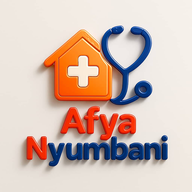
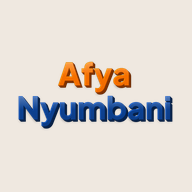
The name in raised lettering, in place of the house mark
The owner asked for the house-and-stethoscope mark to go and the name
to carry the brand, in the 3-D lettering the business already uses.

The artwork that carried that lettering could not be reused: it was
cropped flat across the tops of the caps in "Afya", and pixels that
were never exported cannot be recovered by any amount of layout. So the
lettering is built instead, in scripts/make-brand-art.py, out of the
typeface the app already ships — which means it can be made at any size
with nothing clipped, and remade if a colour or a word ever changes.

The depth is four passes: a blurred contact shadow so the letters sit on
the surface rather than float above it, the glyph stamped repeatedly
along one diagonal in a darkened shade for the side wall, a vertical
gradient on the face so it catches light, and a soft gloss band across
the top of each letter, which is what makes it read as moulded plastic
rather than a flat shape with a shadow behind it.

Everything that was the old mark is cut from that one piece of artwork:
the app icon, the Android adaptive icon and its monochrome silhouette,
the web icons at 192 and 512, the maskable one inset to the circle
Android crops to, and the launch screen. assets/logo-mark.png and the
cropped wordmark are deleted rather than left to be picked up again.

The launch screen and the in-app loading gate now show the same image at
the same size, so handing over from one to the other is invisible.
[…]

diff --git a/mobile/public/index.html b/mobile/public/index.html
@@ -15,10 +15,12 @@
     2. The background set on html and body, so the very first paint,
        before a line of JavaScript has run, is already the brand cream
        rather than a white flash.
-    3. The name drawn as text inside the root element. React replaces
-       it the moment it mounts. It costs no download, it cannot be
-       blurry because it is not a picture, and it is the same two-tone
-       name the app itself draws a second later.
+    3. The name, in the raised lettering the business uses, inside the
+       root element. React replaces it the moment it mounts. It is a
+       520-pixel image drawn at 260, so it is a 2x asset and cannot go
+       soft the way the old 64-pixel favicon did — that was the whole
+       complaint, and the fix is the right resolution rather than a
+       bigger file.
     4. A theme colour, so the browser chrome matches instead of sitting
        white above a cream page.
 
@@ -73,16 +75,11 @@
         font-family: -apple-system, BlinkMacSystemFont, 'Segoe UI', Roboto, sans-serif;
         -webkit-font-smoothing: antialiased;
       }
-      #afya-splash .name {
-        font-size: 30px;
-        font-weight: 800;
-        letter-spacing: -0.6px;
-      }
-      #afya-splash .a {
-        color: #fd6000;
-      }
-      #afya-splash .n {
-        color: #0d408f;
+      #afya-splash img {
+        width: 260px;
+        max-width: 72vw;
+        height: auto;
+        display: block;
       }
       #afya-splash .tag {
         font-size: 13px;
@@ -119,7 +116,7 @@
 
     <div id="root">
       <div id="afya-splash">
-        <div class="name"><span class="a">Afya</span> <span class="n">Nyumbani</span></div>
+        <img src="/wordmark-3d.png" alt="Afya Nyumbani" width="520" height="79" />
         <div class="tag">Huduma ya afya mlangoni kwako</div>
         <div class="bar"><i></i></div>
       </div>

diff --git a/mobile/lib/brand.js b/mobile/lib/brand.js
@@ -3,16 +3,16 @@ import { colors, font } from './theme';
 
 // The name, set as text rather than as a picture.
 //
-// It used to be assets/wordmark.png. That file is cropped: the tops of
-// the A, f, t and y in "Afya" are cut flat against the top edge of the
+// It used to be assets/wordmark.png. That file was cropped: the tops of
+// the A, f, t and y in "Afya" were cut flat against the edge of the
 // canvas, and no amount of layout fixes that, because the pixels are
-// not in the file. Padding the box only moves the cut; 'contain' cannot
-// restore what was never exported.
+// not in the file.
 //
-// So the name is typed now, in the app's own Jakarta ExtraBold, in the
-// logo's two colours. Nothing can clip it, it stays sharp at every
-// density, it costs no download, and it reads at sizes where the raised
-// 3-D lettering in the artwork turned to mud.
+// The raised 3-D lettering is back where it belongs — on the app icon
+// and the launch screen, rebuilt from this same typeface at a size
+// where the depth reads. Here it stays typed, because this draws the
+// name at 21 points in a header, and extruded letters at 21 points are
+// mud. Same two colours, same shapes; the depth is what is dropped.
 //
 // The house-and-stethoscope mark is not here. It was beside the name on
 // the sign-in screens and at the top of Home, and the owner asked for it

diff --git a/mobile/app/index.js b/mobile/app/index.js
@@ -1,6 +1,5 @@
 import { Redirect } from 'expo-router';
-import { ActivityIndicator, StyleSheet, View } from 'react-native';
-import { Wordmark } from '../lib/brand';
+import { ActivityIndicator, Image, StyleSheet, View } from 'react-native';
 import { useSession } from '../lib/session';
 import { colors, spacing } from '../lib/theme';
 
@@ -16,7 +15,15 @@ export default function Index() {
   if (loading) {
     return (
       <View style={styles.container}>
-        <Wordmark size={34} align="center" style={styles.wordmark} />
+        {/* The same raised lettering the HTML launch screen shows, at
+            the same size, so handing over from one to the other is
+            invisible rather than a jump from one logo to another. */}
+        <Image
+          source={require('../assets/wordmark-3d.png')}
+          style={styles.wordmark}
+          resizeMode="contain"
+          accessibilityLabel="Afya Nyumbani"
+        />
         <ActivityIndicator color={colors.primary} />
       </View>
     );
@@ -32,5 +39,5 @@ const styles = StyleSheet.create({
     justifyContent: 'center',
     backgroundColor: colors.cream,
   },
-  wordmark: { marginBottom: spacing.lg },
+  wordmark: { width: 260, height: 40, marginBottom: spacing.lg },
 });

diff --git a/mobile/scripts/make-brand-art.py b/mobile/scripts/make-brand-art.py
@@ -1,0 +1,215 @@
+"""Render "Afya Nyumbani" as raised 3-D lettering, and the icons from it.
+
+    python scripts/make-brand-art.py
+
+Needs Pillow and the Jakarta ExtraBold file that ships in node_modules,
+so run it after npm install. It writes assets/wordmark-3d*.png, the app
+icon, the Android adaptive icons and the web icons under public/.
+
+
+The business's own logo has the name in raised plastic-looking letters,
+and that is what the owner wants back — but the artwork that carried it
+was cropped flat across the top of the caps, and no amount of layout
+puts pixels back that were never exported. So the lettering is built
+here instead, from the app's own typeface, which means it can be made
+at any size with nothing clipped.
+
+How the depth is made, in order:
+
+  1. a contact shadow — the glyph blurred and pushed down, so the
+     letters sit on the surface rather than float above it
+  2. an extrusion — the glyph stamped repeatedly along one diagonal in
+     a darkened shade, which is the side wall of each letter
+  3. the face — a vertical gradient from a lighter tint at the top to
+     the base colour at the bottom, so the surface catches light
+  4. a rim light — the glyph minus a copy of itself nudged down-right,
+     which leaves a thin bright edge along the top-left
+"""
+import os
+
+from PIL import Image, ImageChops, ImageDraw, ImageFilter, ImageFont
+
+# Run from anywhere: everything is written relative to mobile/.
+os.chdir(os.path.join(os.path.dirname(os.path.abspath(__file__)), '..'))
+
+FONT = 'node_modules/@expo-google-fonts/plus-jakarta-sans/800ExtraBold/PlusJakartaSans_800ExtraBold.ttf'
+
+ORANGE = (253, 96, 0)
+BLUE = (13, 64, 143)
+
+
+def shade(rgb, factor):
+    return tuple(max(0, min(255, int(c * factor))) for c in rgb)
+
+
+def glyph_mask(size, text, font, pos):
+    layer = Image.new('L', size, 0)
+    ImageDraw.Draw(layer).text(pos, text, font=font, fill=255)
+    return layer
+
+
+def gradient(size, top, bottom):
+    ramp = Image.new('RGB', (1, size[1]))
+    px = ramp.load()
+    for y in range(size[1]):
+        t = y / max(1, size[1] - 1)
+        px[0, y] = tuple(int(top[i] + (bottom[i] - top[i]) * t) for i in range(3))
+    return ramp.resize(size, Image.BILINEAR)
+
+
+def _extent(mask):
+    box = mask.getbbox()
+    return (box[1], box[3]) if box else (0, 0)
+
+
+def raised(canvas, text, font, pos, colour, depth):
+    """Draw one run of text onto `canvas` (RGBA) as a raised solid."""
+    size = canvas.size
+    mask = glyph_mask(size, text, font, pos)
+
+    # 1. contact shadow
+    shadow = mask.filter(ImageFilter.GaussianBlur(depth * 0.55))
+    shadow = ImageChops.offset(shadow, int(depth * 0.5), int(depth * 0.9))
+    shadow = shadow.point(lambda v: int(v * 0.42))
+    canvas.paste(Image.new('RGBA', size, (40, 20, 8, 255)), (0, 0), shadow)
+
+    # 2. extrusion — the side wall, darkest at the back
+    for i in range(depth, 0, -1):
+        step = ImageChops.offset(mask, i, i)
+        wall = shade(colour, 0.42 + 0.16 * (1 - i / depth))
+        canvas.paste(Image.new('RGBA', size, wall + (255,)), (0, 0), step)
+
+    # 3. the face, lighter at the top so the surface catches light
+    face = gradient(size, shade(colour, 1.30), shade(colour, 0.88)).convert('RGBA')
+    canvas.paste(face, (0, 0), mask)
+
+    # 4. gloss — a soft band across the upper part of every letter, which
+    #    is what makes the lettering read as moulded plastic rather than
+    #    as a flat shape with a shadow behind it.
+    top, bottom = _extent(mask)
+    gloss = Image.new('L', size, 0)
+    band = int((bottom - top) * 0.46)
+    if band > 0:
+        ramp = gradient((size[0], band), (255, 255, 255), (0, 0, 0)).convert('L')
+        gloss.paste(ramp, (0, top))
+        gloss = ImageChops.multiply(gloss, mask)
+        gloss = gloss.filter(ImageFilter.GaussianBlur(1.2)).point(lambda v: int(v * 0.30))
+        canvas.paste(Image.new('RGBA', size, (255, 255, 255, 255)), (0, 0), gloss)
+
+    # 5. rim light along the top-left edge
+    rim = ImageChops.subtract(mask, ImageChops.offset(mask, 4, 4))
+    rim = rim.filter(ImageFilter.GaussianBlur(1.0)).point(lambda v: int(v * 0.55))
+    canvas.paste(Image.new('RGBA', size, shade(colour, 1.7) + (255,)), (0, 0), rim)
+
+
+def render(font_size, stacked, pad_ratio=0.34):
+    """Two lines when stacked (for a square icon), one when not."""
+    font = ImageFont.truetype(FONT, font_size)
+    probe = ImageDraw.Draw(Image.new('RGBA', (8, 8)))
+    depth = max(3, round(font_size * 0.075))
+
+    if stacked:
+        lines = ['Afya', 'Nyumbani']
+        colours = [ORANGE, BLUE]
+        widths = [probe.textlength(t, font=font) for t in lines]
+        boxes = [probe.textbbox((0, 0), t, font=font) for t in lines]
+        line_h = max(b[3] - b[1] for b in boxes)
+        gap = int(font_size * 0.12)
+        text_w = max(widths)
+        text_h = line_h * 2 + gap
+    else:
+        lines = ['Afya ', 'Nyumbani']
+        colours = [ORANGE, BLUE]
+        widths = [probe.textlength(t, font=font) for t in lines]
+        boxes = [probe.textbbox((0, 0), ''.join(lines), font=font)]
+        text_w = sum(widths)
+        text_h = boxes[0][3] - boxes[0][1]
+
+    pad = int(font_size * pad_ratio)
+    size = (int(text_w) + pad * 2 + depth, int(text_h) + pad * 2 + depth)
+    canvas = Image.new('RGBA', size, (0, 0, 0, 0))
+
+    if stacked:
+        for index, (text, colour) in enumerate(zip(lines, colours)):
+            box = probe.textbbox((0, 0), text, font=font)
+            x = (size[0] - depth - probe.textlength(text, font=font)) / 2
+            y = pad - box[1] + index * (line_h + gap)
+            raised(canvas, text, font, (x, y), colour, depth)
+    else:
+        x = pad
+        for text, colour in zip(lines, colours):
+            box = probe.textbbox((0, 0), text, font=font)
+            raised(canvas, text, font, (x, pad - box[1]), colour, depth)
+            x += probe.textlength(text, font=font)
+
+    return canvas
+
+
+os.makedirs('assets', exist_ok=True)
+
+stacked = render(190, stacked=True)
+stacked.save('assets/wordmark-3d-stacked.png')
+print('stacked', stacked.size, 'bbox', stacked.getchannel('A').getbbox())
+
+single = render(150, stacked=False)
+single.save('assets/wordmark-3d.png')
+print('single ', single.size, 'bbox', single.getchannel('A').getbbox())
+
+
+# --- Everything that is made out of the lettering ---------------------
+#
+# The house-and-stethoscope mark used to be the app icon. The owner asked
+# for the name instead, in the raised lettering, so every icon below is
+# cut from the same artwork and nothing is scaled up from a small file.
+
+CREAM = (239, 232, 224)
+
+art = Image.open('assets/wordmark-3d-stacked.png').convert('RGBA')
+art = art.crop(art.getchannel('A').getbbox())
+
+
+def square(size, fill_ratio, bg=CREAM):
+    canvas = Image.new('RGBA', (size, size), bg + (255,))
+    w = int(size * fill_ratio)
+    h = int(art.height * (w / art.width))
+    if h > w:
+        h, w = w, int(art.width * (w / art.height))
+    scaled = art.resize((w, h), Image.LANCZOS)
+    canvas.alpha_composite(scaled, ((size - w) // 2, (size - h) // 2))
+    return canvas.convert('RGB')
+
+
+square(1024, 0.82).save('assets/icon.png')
+square(512, 0.82).save('public/icon-512.png')
+square(192, 0.82).save('public/icon-192.png')
+square(196, 0.86).save('public/favicon-196.png')
+# Android crops a maskable icon to a circle, so only the middle ~66%
+# is guaranteed to survive.
+square(512, 0.62).save('public/icon-maskable-512.png')
+
+# Android adaptive icon: foreground inset to the safe circle, flat
+# background, and a white silhouette for themed icons.
+S = 1024
+fg = Image.new('RGBA', (S, S), (0, 0, 0, 0))
+w = int(S * 0.60)
+h = int(art.height * (w / art.width))
+fg.alpha_composite(art.resize((w, h), Image.LANCZOS), ((S - w) // 2, (S - h) // 2))
+fg.save('assets/android-icon-foreground.png')
+Image.new('RGB', (S, S), CREAM).save('assets/android-icon-background.png')
+mono = Image.new('RGBA', (S, S), (0, 0, 0, 0))
+mono.paste(
+    Image.new('RGBA', (S, S), (255, 255, 255, 255)),
+    (0, 0),
+    fg.getchannel('A').point(lambda v: 255 if v > 110 else 0),
+)
+mono.save('assets/android-icon-monochrome.png')
+
+# The launch screen draws this at 260 CSS pixels, so it ships at 520.
+single_art = Image.open('assets/wordmark-3d.png').convert('RGBA')
+single_art = single_art.crop(single_art.getchannel('A').getbbox())
+w = 520
+single_art.resize((w, int(single_art.height * (w / single_art.width))), Image.LANCZOS).save(
+    'public/wordmark-3d.png'
+)
+
+print('icons rebuilt')
